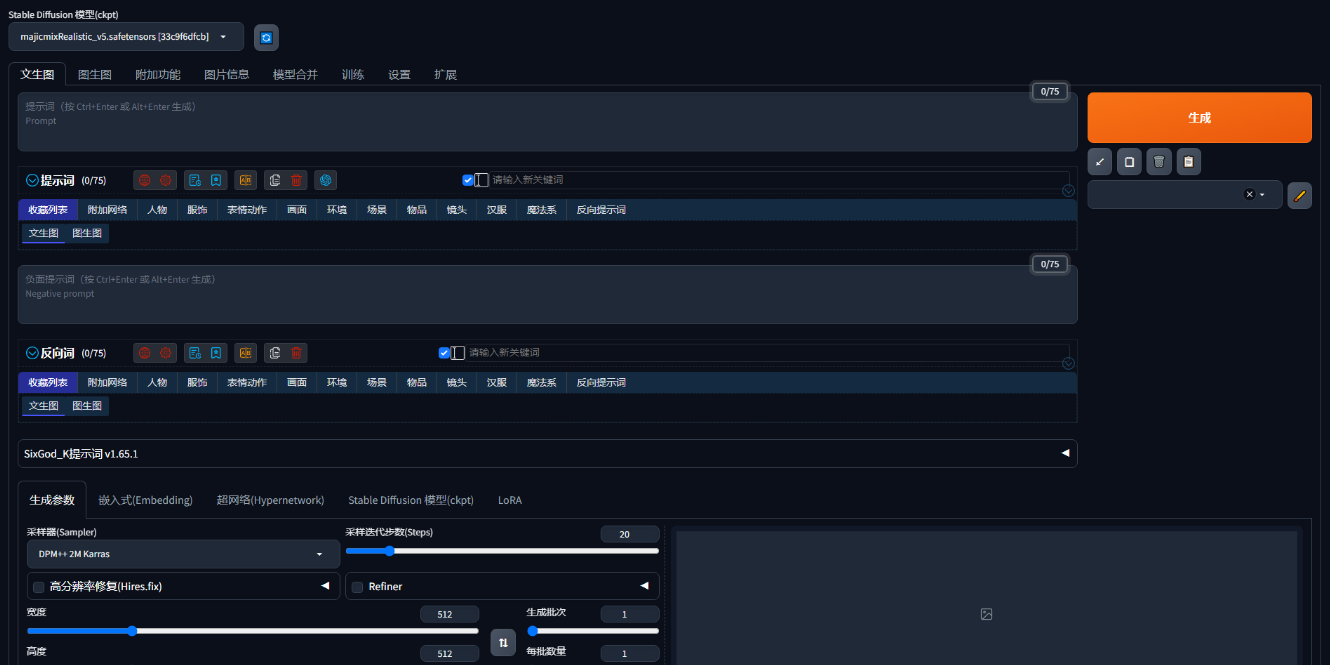
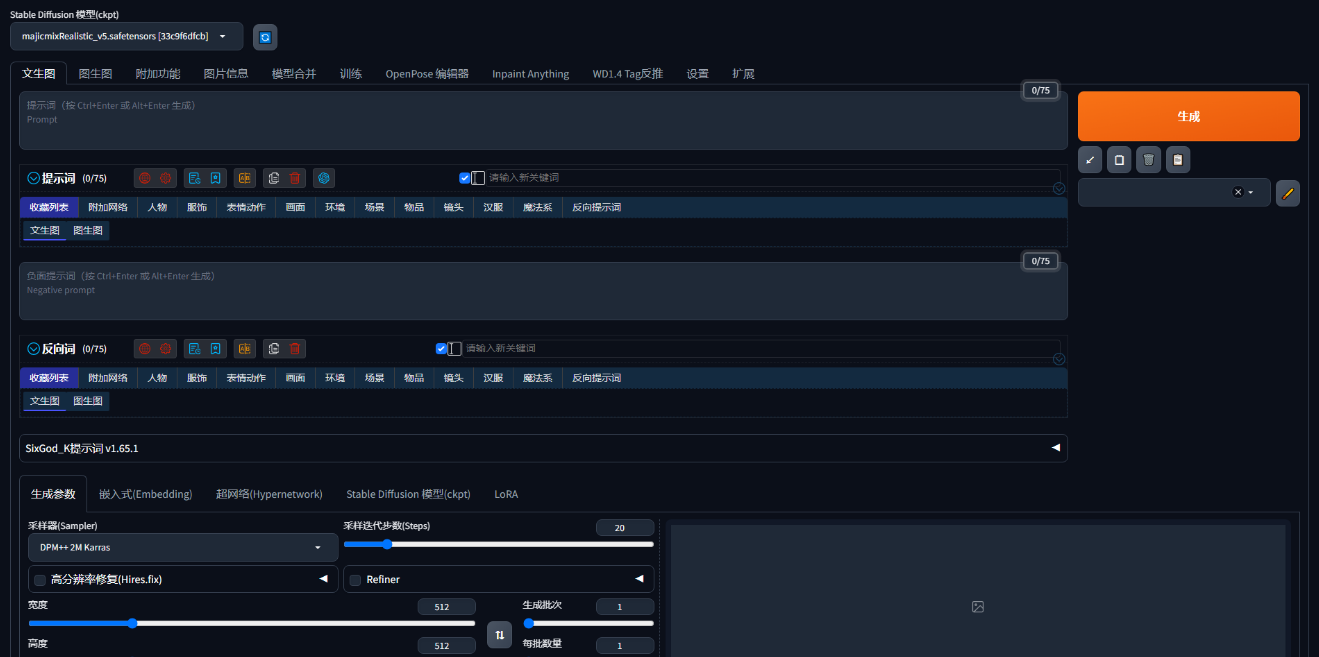
update

diff --git a/setup3-extensions/README.md b/setup3-extensions/README.md
@@ -5,7 +5,7 @@
 
 
 - https://github.com/Physton/sd-webui-prompt-all-in-one  </p>
-  sd-webui-prompt-all-in-one 是一个基于 stable-diffusion-webui 的扩展，旨在提高提示词/反向提示词输入框的使用体验。它拥有更直观、强大的输入界面功能，它提供了自动翻译、历史记录和收藏等功能，它支持多种语言，满足不同用户的需求。
+  sd-webui-prompt-all-in-one 基于 stable-diffusion-webui 的扩展，旨在提高提示词/反向提示词输入框的使用体验，拥有更直观、强大的输入界面功能，提供了自动翻译、历史记录和收藏等功能。
 
 
 - https://github.com/thisjam/sd-webui-oldsix-prompt </p>
@@ -21,6 +21,34 @@
 
 
 - https://github.com/Coyote-A/ultimate-upscale-for-automatic1111 </p>
-  Ultimate SD Upscale 图片放大
+  Ultimate SD Upscale 图像放大
+
+
+- https://github.com/pkuliyi2015/multidiffusion-upscaler-for-automatic1111 </p>
+  用 Tiled Diffusion & VAE 生成大型图像
+
+
+- https://github.com/picobyte/stable-diffusion-webui-wd14-tagger </p>
+  WD1.4 Tag 反推
+
+
+- https://github.com/s0md3v/sd-webui-roop </p>
+  换脸
+
+
+- https://github.com/Uminosachi/sd-webui-inpaint-anything </p>
+  蒙版修复，例如：删除物体、替换物体、替换背景
+
+
+- https://github.com/continue-revolution/sd-webui-segment-anything </p>
+  图像分割
+
+
+- https://github.com/pkuliyi2015/sd-webui-stablesr </p>
+  StableSR 图像放大
+
+
+- https://https://github.com/fkunn1326/openpose-editor </p>
+  OpenPose 编辑
 
 

diff --git a/README.md b/README.md
@@ -12,7 +12,6 @@
 
 
 ### 二、构建anaconda3镜像
-#### 1、构建anaconda3镜像：
 ```shell
 docker build -t anaconda3:2023.03-1 .
 ```
@@ -45,7 +44,6 @@ RUN set -x \
 
 
 ### 四、扩展webui插件
-#### 1、扩展webui插件
 ```shell
 docker build -t webui .
 ```
